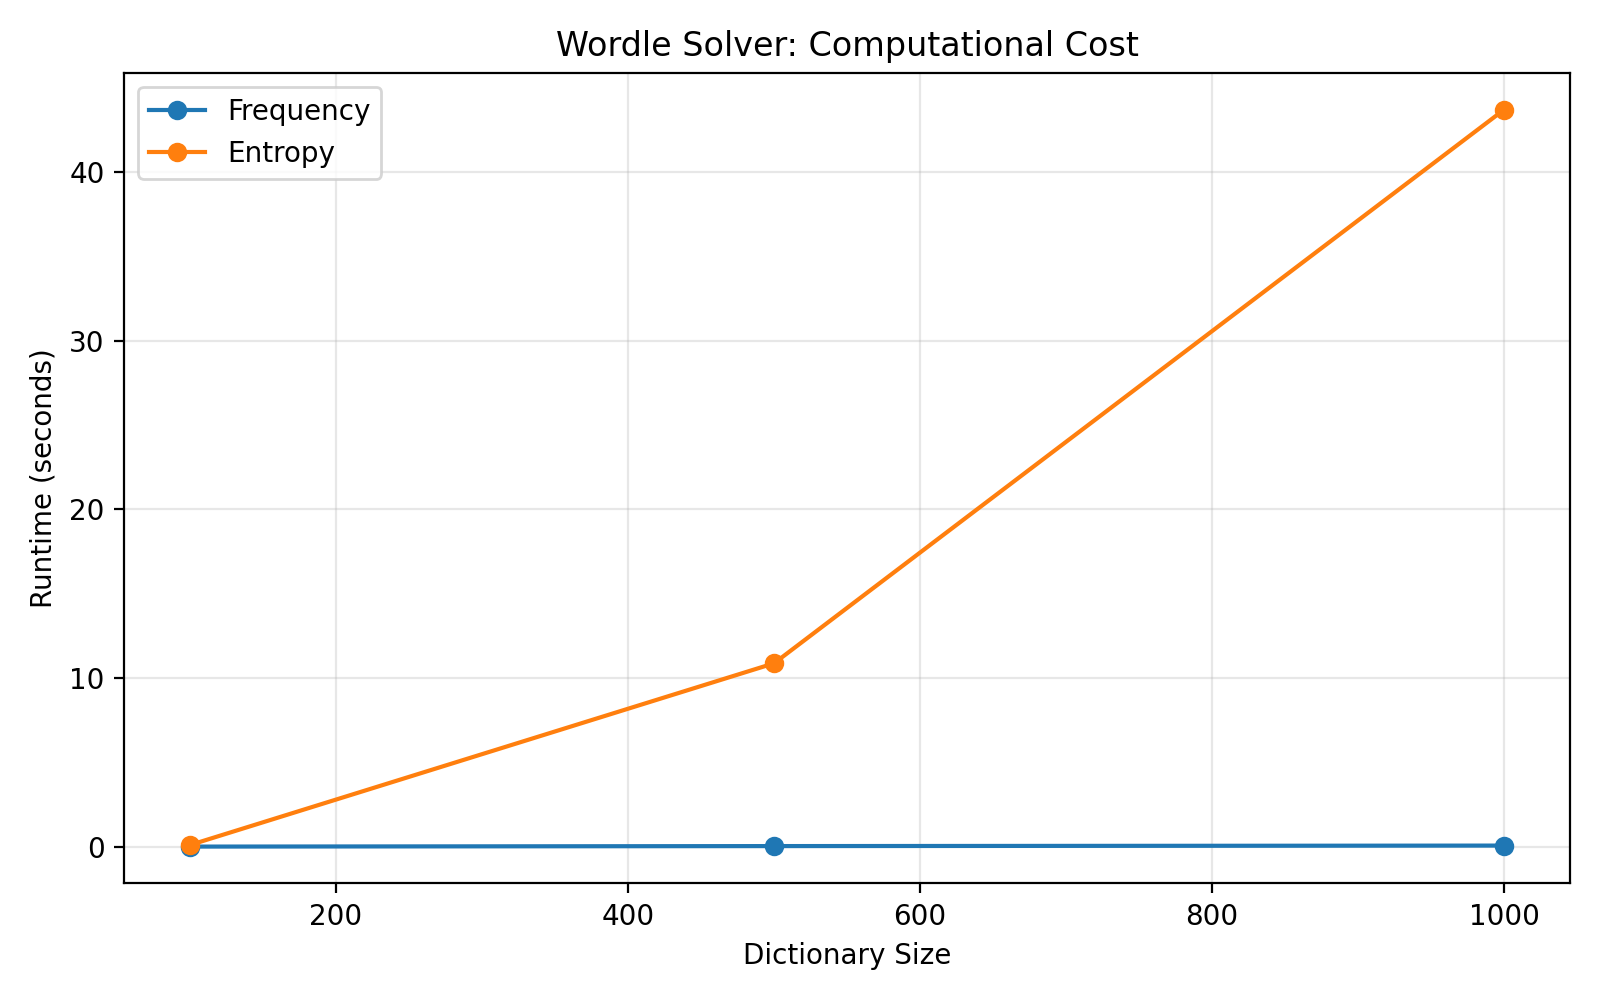
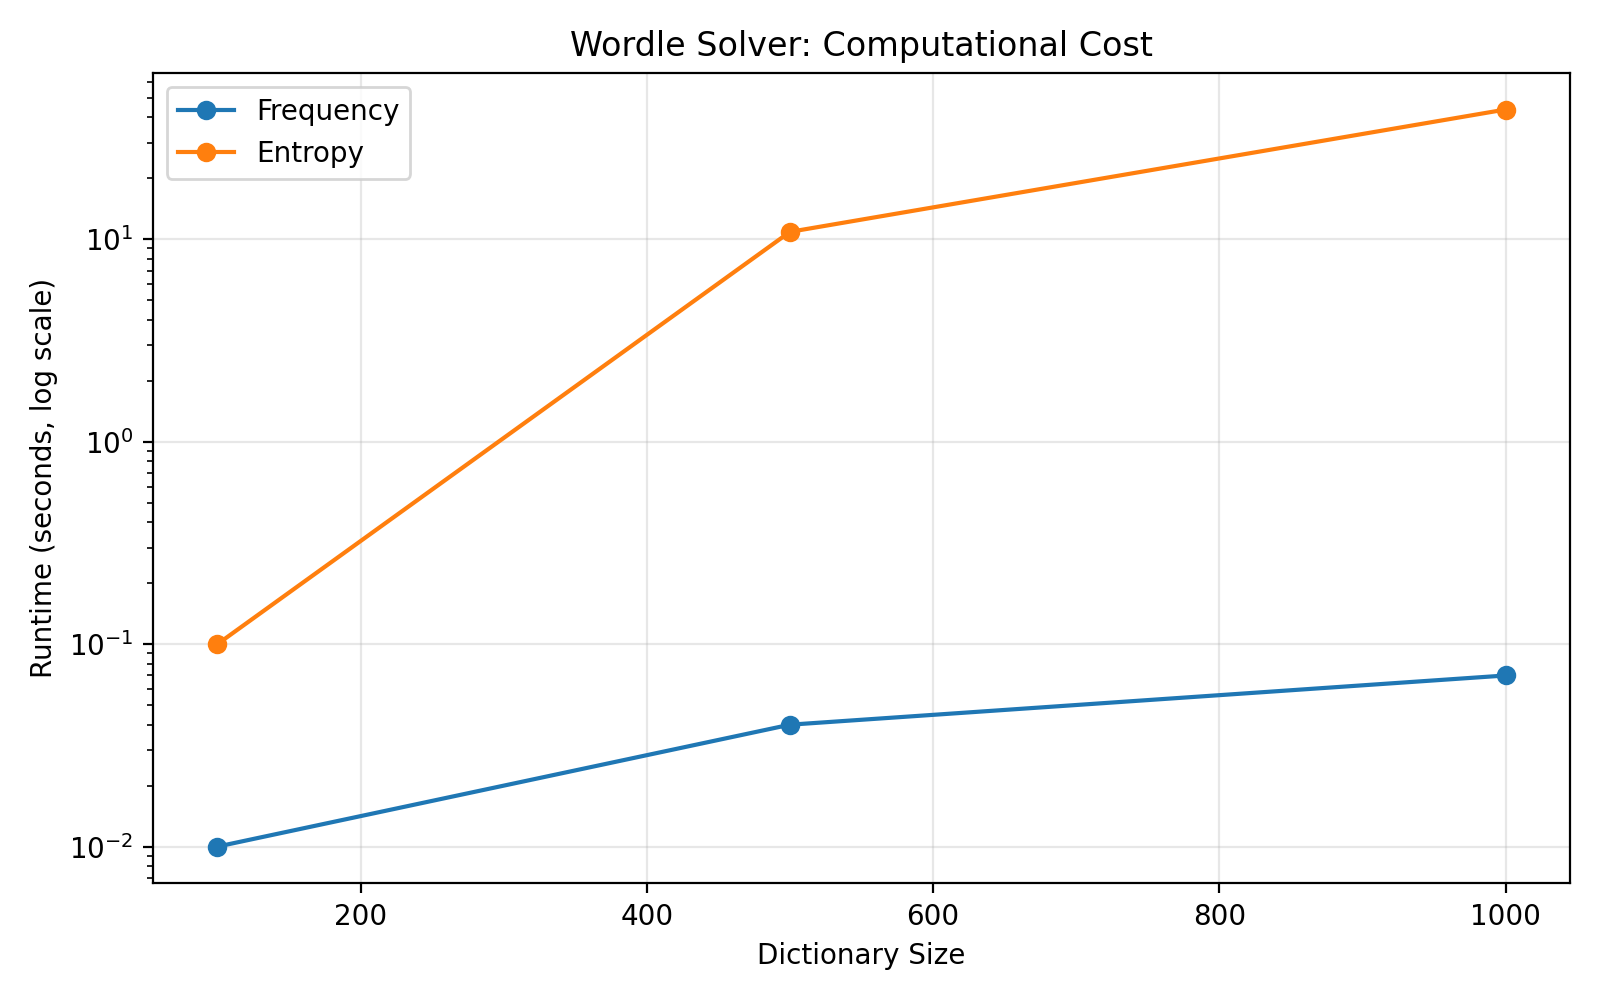
Improve runtime visualization with logarithmic scale

diff --git a/visualize.py b/visualize.py
@@ -41,7 +41,8 @@ for strategy in ["frequency", "entropy"]:
     )
 
 plt.xlabel("Dictionary Size")
-plt.ylabel("Runtime (seconds)")
+plt.ylabel("Runtime (seconds, log scale)")
+plt.yscale("log")
 plt.title("Wordle Solver: Computational Cost")
 plt.legend()
 plt.grid(alpha=0.3)
